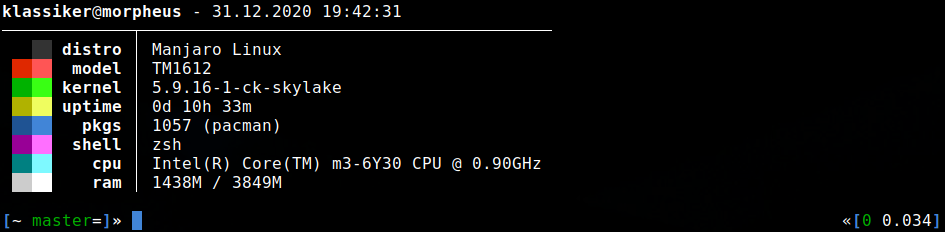
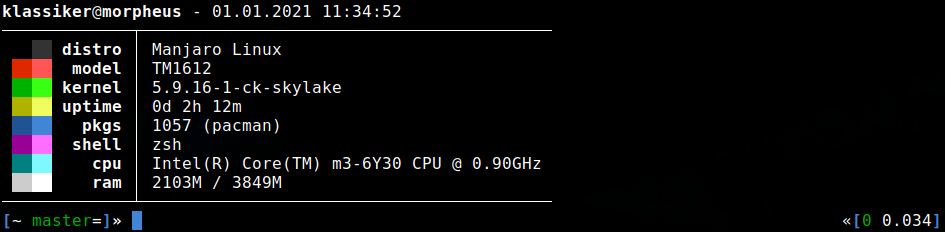
line added at the end

diff --git a/cinfo.c b/cinfo.c
@@ -2,7 +2,7 @@
  * path:       /home/klassiker/.local/share/repos/cinfo/cinfo.c
  * author:     klassiker [mrdotx]
  * github:     https://github.com/mrdotx/cinfo
- * date:       2021-01-01T11:21:03+0100
+ * date:       2021-01-01T11:33:58+0100
  */
 
 #include <stdio.h>
@@ -49,6 +49,8 @@ char user[50],
 const char* getSpacer(char *character, int length) {
     static char spacer[] = "";
     int i = 1;
+
+    strcpy(spacer, "");
 
     while (i <= length) {
         strcat(spacer, character);
@@ -258,7 +260,8 @@ void getAscii() {
     printf("  shell | %s\n", shell);
     printf("    cpu | %s\n", cpu);
     printf("    ram | %s\n", ram);
-    printf("\n");
+
+    printf("--------+%s\n", getSpacer("-", linelen + 2));
 }
 
 void getColor() {
@@ -280,7 +283,8 @@ void getColor() {
     printf("%s%s%s shell%s │ %s\n", magenta, color, bold, reset, shell);
     printf("%s%s%s   cpu%s │ %s\n", cyan, color, bold, reset, cpu);
     printf("%s%s%s   ram%s │ %s\n", white, color, bold, reset, ram);
-    printf("\n");
+
+    printf("─────────────┴%s\n", getSpacer("─", linelen + 2));
 }
 
 int main(int argc, char *argv[]) {
